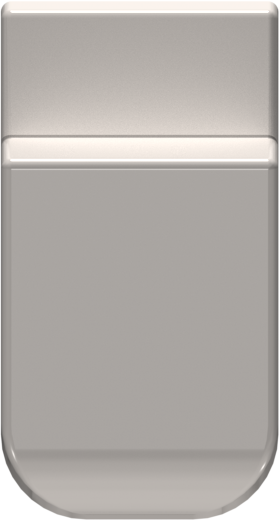
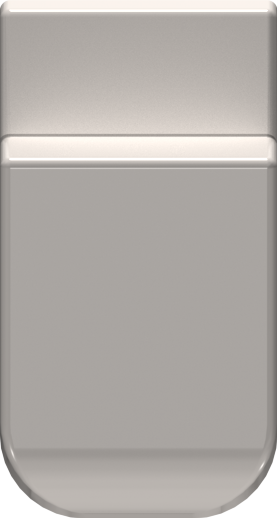
British pedal: * fix (crop) background * add some signs of usage

diff --git a/html/resources/pedals/british/british.css b/html/resources/pedals/british/british.css
@@ -7,9 +7,9 @@
 .mod-pedal-british{{{cns}}} {
     background-position:center center;
     background-repeat:no-repeat;
-    height:520px;
+    height:518px;
     position:absolute;
-    width:279px;
+    width:277px;
     border-radius: 18px;
     border-bottom-right-radius: 90px;
     border-bottom-left-radius: 90px;
